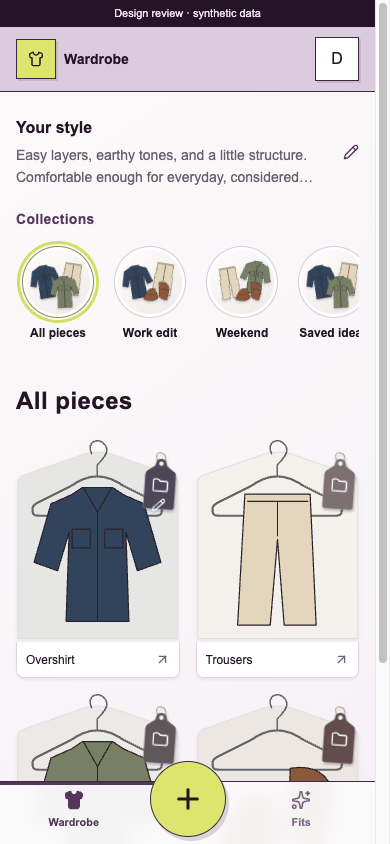
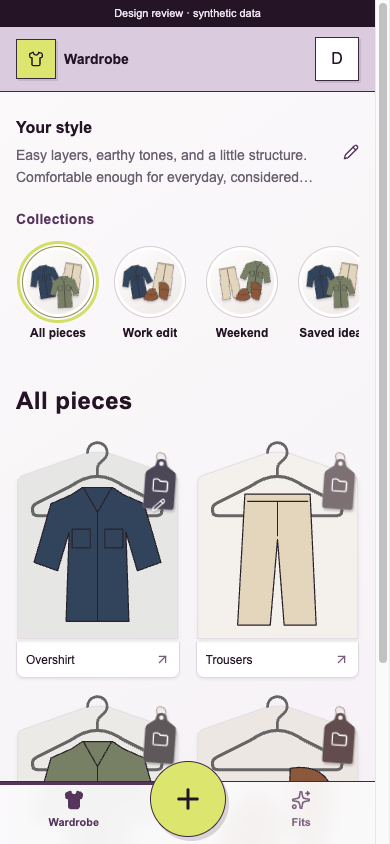
Give hanger frames more weight and simplify the rounded hook

diff --git a/apps/web/src/app/globals.css b/apps/web/src/app/globals.css
@@ -753,8 +753,8 @@ h4 {
 .rack-piece-silhouette path { fill:color-mix(in srgb,var(--rack-item-accent) 13%,#f7f5f2); stroke:#e3dde3; stroke-width:1; vector-effect:non-scaling-stroke; stroke-linejoin:round; }
 .rack-piece-hanger { position:absolute; width:86%; height:auto; top:-13px; left:7%; z-index:1; overflow:visible; }
 .rack-piece-hook, .rack-piece-frame { fill:none; stroke:#666; stroke-linecap:round; stroke-linejoin:round; vector-effect:non-scaling-stroke; }
-.rack-piece-hook { stroke-width:1.6; }
-.rack-piece-frame { stroke-width:2.2; }
+.rack-piece-hook { stroke-width:2.8; }
+.rack-piece-frame { stroke-width:3.2; }
 .rack-piece-photo { position:absolute; inset:12% 5% 0; z-index:2; }
 .rack-piece-tag { position:absolute; z-index:3; right:3px; top:8px; width:34px; height:53px; transform:rotate(4deg); filter:drop-shadow(1px 2px 1px rgb(36 20 38 / .22)); }
 .rack-piece-tag-outline { position:absolute; inset:0; width:100%; height:100%; overflow:visible; }

diff --git a/apps/web/src/components/RackItemCard.tsx b/apps/web/src/components/RackItemCard.tsx
@@ -123,7 +123,7 @@ export default function RackItemCard({
           >
             <path
               className="rack-piece-hook"
-              d="M46 12C42 5 49 0 54 4C61 10 53 16 50 20V28"
+              d="M43 11A7 7 0 0 1 57 11C57 17 50 17 50 23V28"
             />
             <path
               className="rack-piece-frame"

diff --git a/docs/design/collections/README.md b/docs/design/collections/README.md
@@ -1,13 +1,13 @@
 # Wardrobe collections and near-term Plan
 
-Review hold: this is the implementation intended for merge after design review. Keep its PR in draft with `do-not-merge` until David explicitly releases the hold. Auto-merge stays disabled.
+Design review was approved for release on September 22 after adding weight to the neutral hanger and simplifying its rounded hook. The PR proceeds through the required merge and deployment checks.
 
 This follows the September 21 design review and [product program #60](https://github.com/schmitd/wardrobe/issues/60). It supersedes the earlier use of “Plans” for moodboards on the web; existing saved collection records are retained.
 
 ## Review the interaction
 
 - Wardrobe begins with compact editable style notes, then a horizontal collection rail. Collection circles compose actual member photos into small ensembles; empty collections use a quiet folder. Collections have immediate Pieces and Inspiration views, an edit control, and an Add from wardrobe picker.
-- The entire shirt-shaped card opens its drawer. Labels, Collections, and My note are distinct; Manage changes membership and Save note persists the personal note. Slim neutral gray hangers have a complete closed outline with an empty center, layered behind the garment photo so pieces overlap naturally. Lightly tinted garment silhouettes and shaped hanging tags retain the approved render's styling. Tags carry a collection affordance and an actual note indicator; the caption names the piece.
+- The entire shirt-shaped card opens its drawer. Labels, Collections, and My note are distinct; Manage changes membership and Save note persists the personal note. Neutral gray hangers have substantial rounded strokes, a simple curved hook, and a complete closed outline with an empty center, layered behind the garment photo so pieces overlap naturally. Lightly tinted garment silhouettes and shaped hanging tags retain the approved render's styling. Tags carry a collection affordance and an actual note indicator; the caption names the piece.
 - Fits opens with Plan / Diary. Plan shows today plus six days, a description/dictation entry, nearby calendar context, and one selected outfit. The global Add action serves capture; duplicate upload cards are removed.
 - Relevant collections are recalled automatically when generating a reviewed day or week. Already planned/worn outfits remain protected. Past planned outfits can still be corrected from Diary.
 
@@ -17,7 +17,7 @@ This follows the September 21 design review and [product program #60](https://gi
 
 [Original approved render](approved-render.png) · [Desktop Wardrobe](wardrobe-desktop.png)
 
-The screenshots include the September 22 refinement: thin neutral hangers with an open center replace the original render's filled wooden shoulders, following David's real hanger reference.
+The screenshots include the September 22 refinement: neutral hangers with an open center replace the original render's filled wooden shoulders, following David's real hanger reference. The final strokes have more weight and the hook has a simpler rounded curve.
 
 Screenshots and the standalone gallery use synthetic garment illustrations, account data, and calendar events. The gallery renders the real components and stylesheet; external auth, storage, provider calls, and persistence boundaries are simulated. The application uses authenticated Convex functions, not gallery state.
 

diff --git a/apps/web/DESIGN.md b/apps/web/DESIGN.md
@@ -72,7 +72,7 @@ Try-on feedback should read like a considered styling note, not a shopping score
 
 Collections are named, user-described groups within Wardrobe. Use a condensed horizontal rail with an All pieces entry. Each circle composes up to three actual member images into an ensemble, with contained photos and a clear selected ring. The selected collection exposes Pieces and Inspiration side by side as immediate view controls; neither belongs below a long list of the other. Add existing owned pieces through a compact picker.
 
-The full shirt-shaped card opens a bottom drawer on phones and a side drawer on larger screens. Preserve photo-derived accents and contain the whole garment photo. Use a slim neutral gray hanger with curved shoulders, a complete closed outline, and an empty center. Draw the entire hanger behind the garment photo so the item can overlap it; do not fill the hanger or imply wood. Retain the lightly tinted garment silhouette and vertically hanging shaped tag. Tags show a collection affordance and a personal-note indicator; put the category and details arrow in the caption. In the drawer, show attribute Labels, Collections with Manage, and My note with an explicit Save action.
+The full shirt-shaped card opens a bottom drawer on phones and a side drawer on larger screens. Preserve photo-derived accents and contain the whole garment photo. Use a neutral gray hanger with substantial rounded strokes, a simple rounded hook, curved shoulders, a complete closed outline, and an empty center. Draw the entire hanger behind the garment photo so the item can overlap it; do not fill the hanger or imply wood. Retain the lightly tinted garment silhouette and vertically hanging shaped tag. Tags show a collection affordance and a personal-note indicator; put the category and details arrow in the caption. In the drawer, show attribute Labels, Collections with Manage, and My note with an explicit Save action.
 
 Fits starts with a Plan / Diary switch. Plan uses a seven-day strip and one selected outfit, with a short dictation prompt and calendar context nearby. Put Use this fit beside the outfit and keep swapping and explanations available as compact disclosures. No manual collection selector or duplicate capture cards. Past planned outfits can be corrected from Diary.
 

diff --git a/apps/web/PRODUCT.md b/apps/web/PRODUCT.md
@@ -36,7 +36,7 @@ Avoid fashion editorial layouts, generic SaaS/dashboard templates, and common AI
 
 ## Design Principles
 
-Keep the rack metaphor central where it helps recognition: item rack cards should continue to read like shirts on hangers (upright compact cards in the catalog; sideways cards may remain in other surfaces), with slim neutral hangers and physical hang tags. The upright hanger is a complete closed outline with an empty center, layered behind the item photo. Collection circles show an ensemble of their actual pieces or inspiration; use a quiet folder only when no preview is available.
+Keep the rack metaphor central where it helps recognition: item rack cards should continue to read like shirts on hangers (upright compact cards in the catalog; sideways cards may remain in other surfaces), with neutral hangers, substantial rounded strokes, and physical hang tags. The upright hanger has a simple rounded hook and a complete closed outline with an empty center, layered behind the item photo. Collection circles show an ensemble of their actual pieces or inspiration; use a quiet folder only when no preview is available.
 
 Make the interface playful through product-specific structure, not through arbitrary decoration. The clothing metaphor should explain the screen and make it memorable.
 
